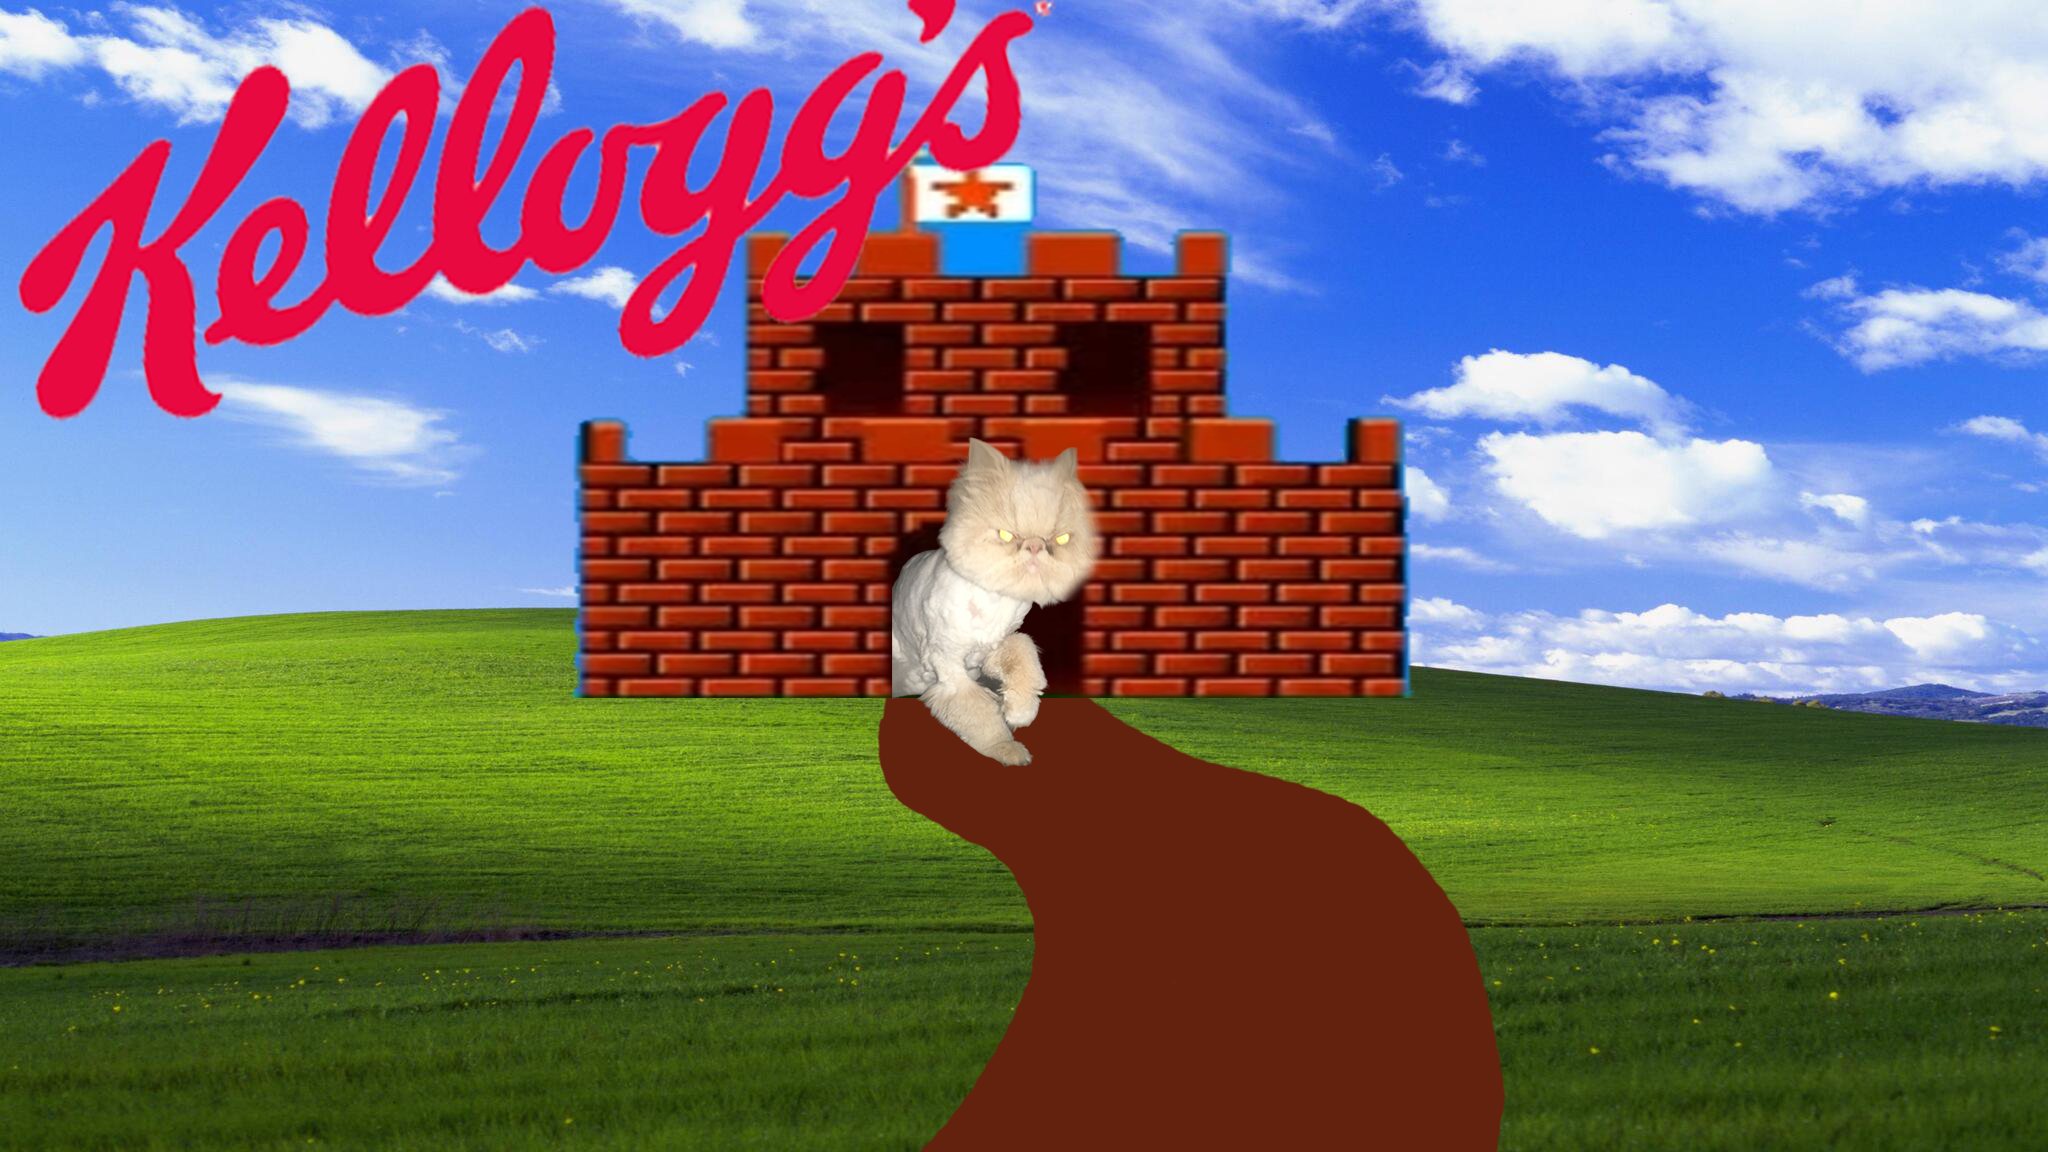
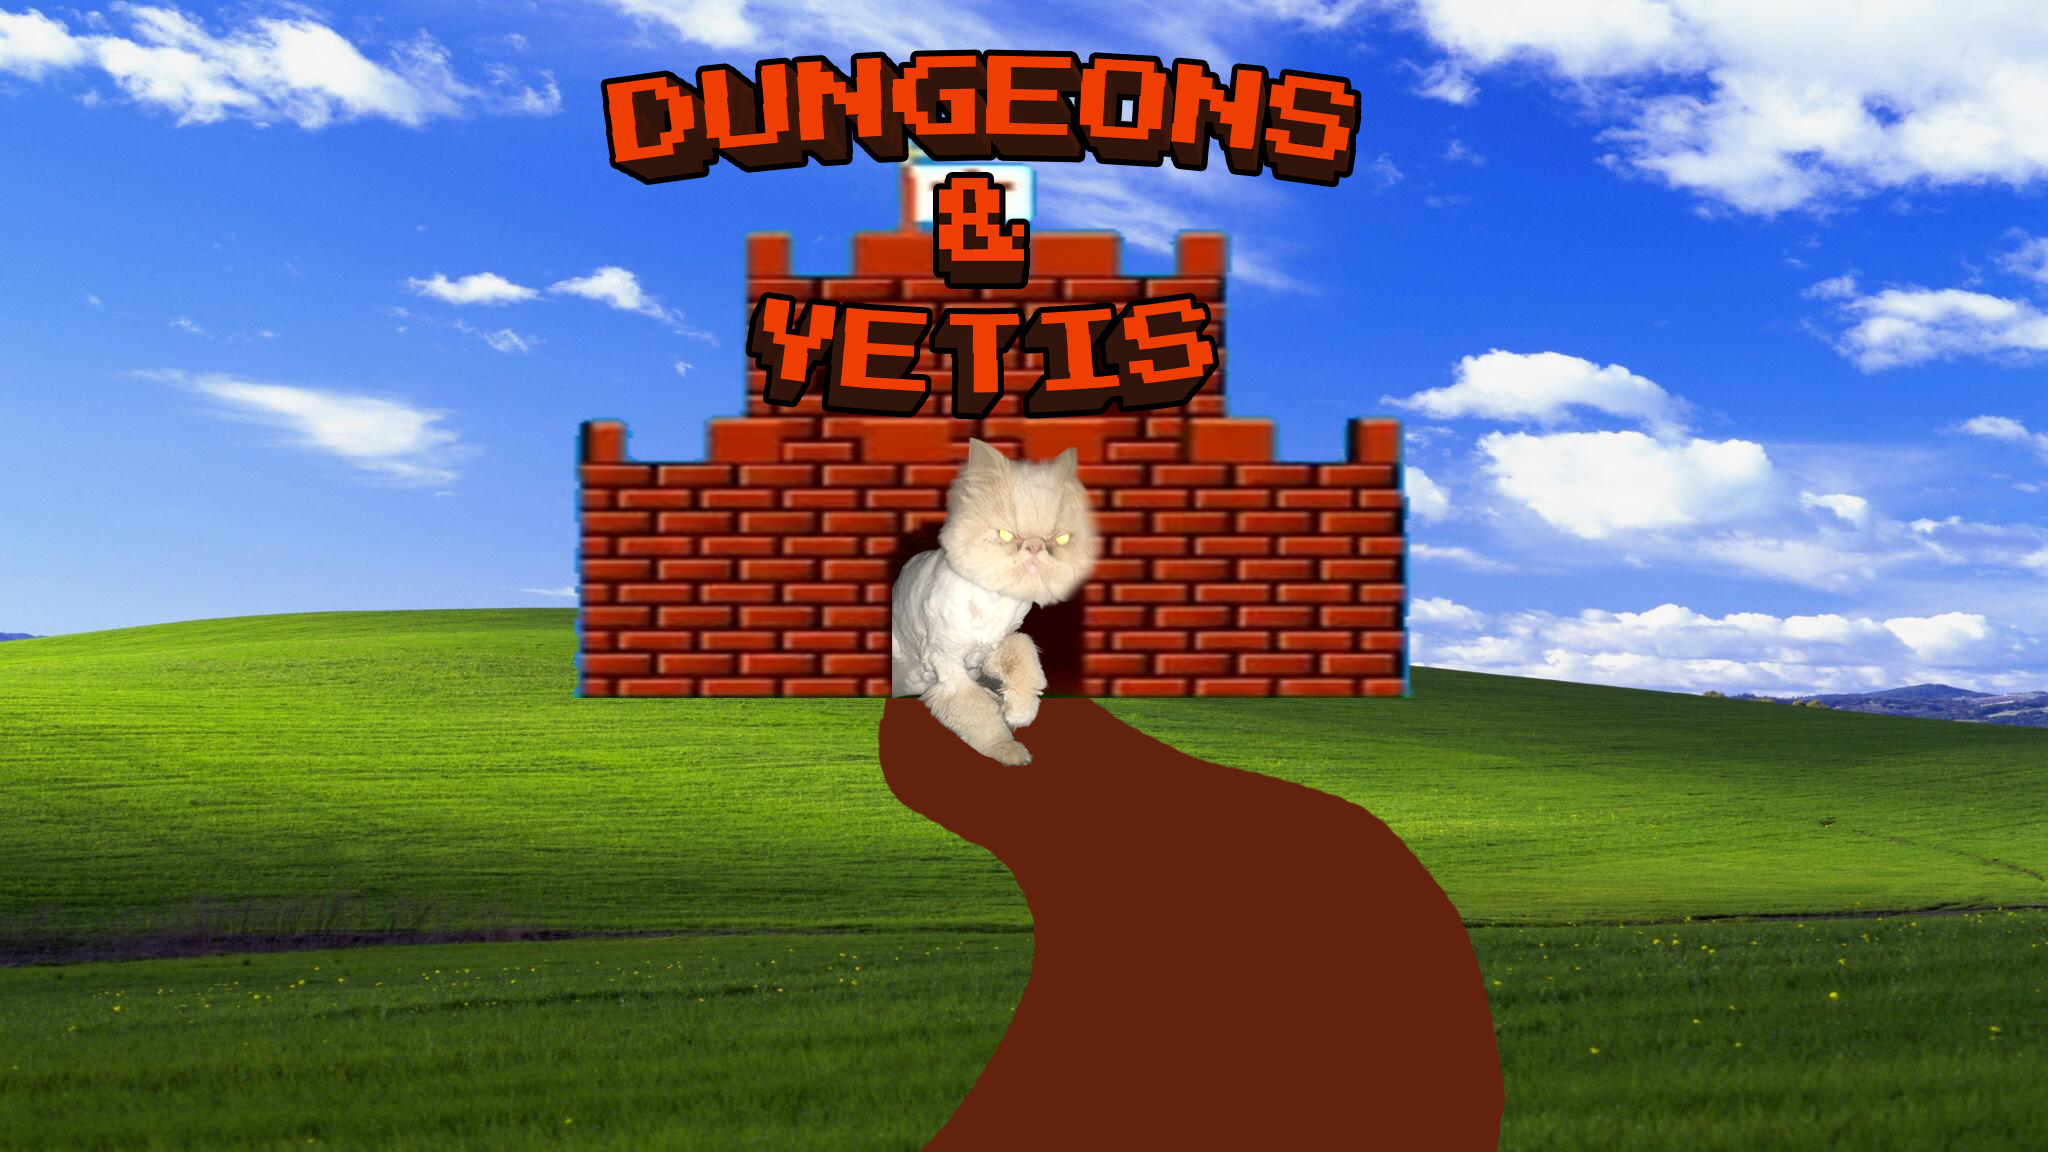
push it

Changed region(s): [[0.0, 0.0, 0.6875, 0.375]]

diff --git a/index.html b/index.html
@@ -1,5 +1,6 @@
 <!DOCTYPE html>
 <html lang="en">
+
 <head>
     <meta charset="UTF-8">
     <meta http-equiv="X-UA-Compatible" content="IE=edge">
@@ -7,20 +8,28 @@
     <link rel="stylesheet" href="css/index.css">
     <script src="script/index.js"></script>
     <title>Dungeons & Yetis</title>
+    <link rel="preconnect" href="https://fonts.googleapis.com">
+    <link rel="preconnect" href="https://fonts.gstatic.com" crossorigin>
+    <link href="https://fonts.googleapis.com/css2?family=Press+Start+2P&display=swap" rel="stylesheet">
 </head>
+
 <body>
     <!-- logga -->
-    <div id="jokeDiv"></div>
+    
     <!-- starta spel-knapp -->
     <!-- skickas sedan till game.html där spelet startar direkt  -->
-
+    <div id="jokeDiv"></div>
 
     <div class="content">
         <div class="header"></div>
         <div class="startgame">
-            <input type="button" onclick="window.location.href = 'game.html'" value="Enter the dungeon!">
+            <input class="startGameButton" type="button" onclick="window.location.href = 'game.html'"
+                value="ENTER DUNGEON">
+                
         </div>
+        
     </div>
 </body>
 <script src="script/index.js"></script>
+
 </html>

diff --git a/css/index.css b/css/index.css
@@ -1,9 +1,53 @@
 #jokeDiv {
+    position: fixed;
+    left: 50%;
+    bottom: 20px;
+    transform: translate(-50%, -50%);
+    margin: 0 auto;
+
+
+
     width: auto;
     height: auto;
-    border: none;
+    border: groove 5px black;
+    font-family: 'Press Start 2P', cursive;
+    background-color: whitesmoke;
+    font-size: 0.6em;
+
+    padding: 15px;
+
 }
 
-body{
+body {
     background-image: url(/resources/titlebg.png);
+}
+
+
+.content {
+    display: flex;
+    justify-content: center;
+    align-items: center;
+}
+
+
+.startGameButton {
+    position: fixed;
+    left: 50%;
+    bottom: 190px;
+    transform: translate(-50%, -50%);
+    margin: 0 auto;
+
+
+
+
+
+    background-color: rgb(255, 255, 255);
+    color: black;
+    border: groove 5px red;
+    font-size: 1em;
+    padding: 10px;
+    margin: auto;
+    font-weight: bold;
+    font-family: 'Press Start 2P', cursive;
+
 }
